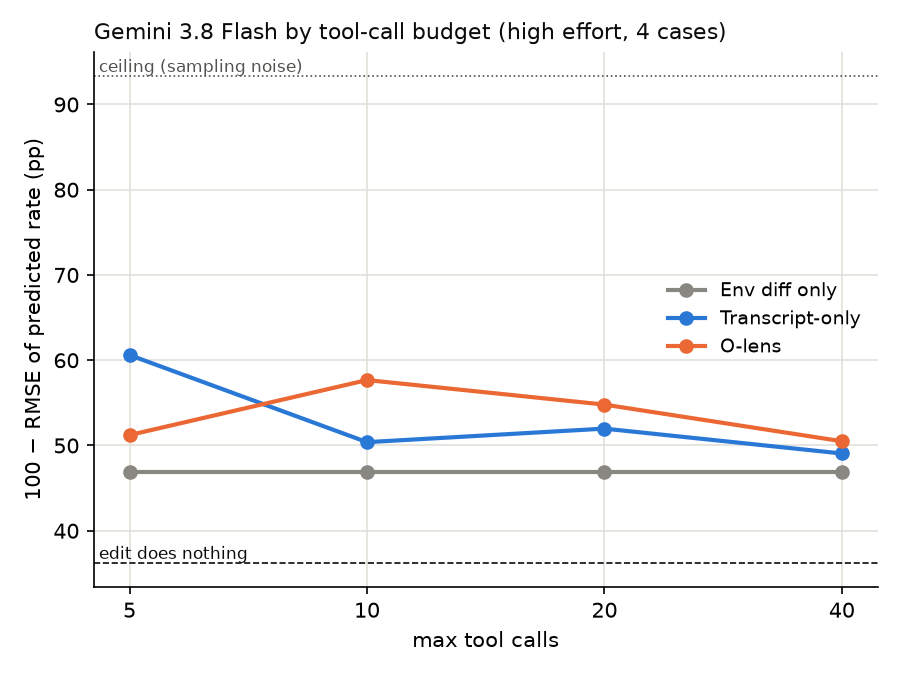
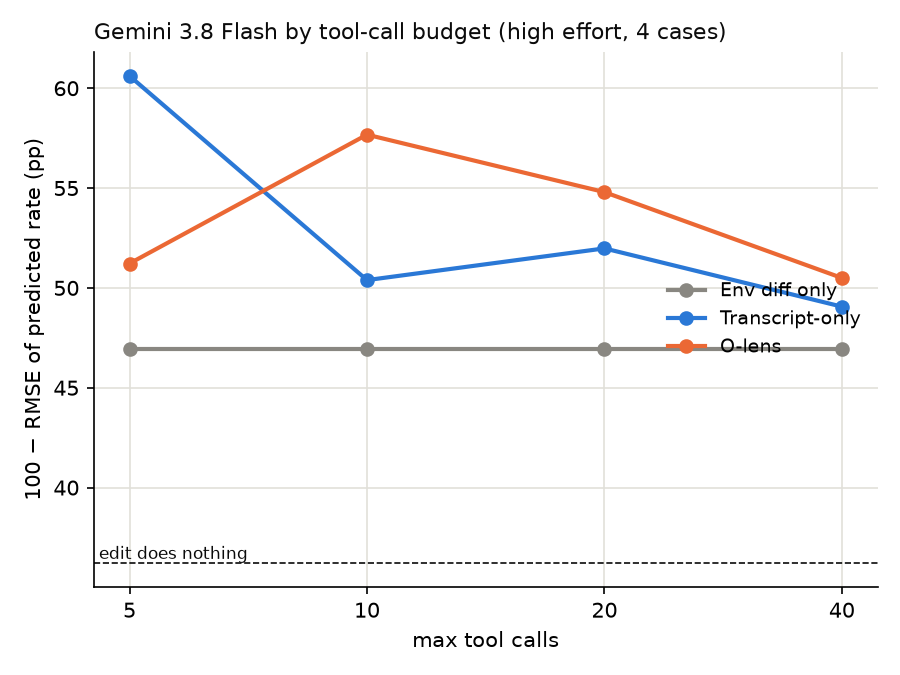
charts: drop the sampling-noise ceiling lines

diff --git a/cfbench/report/charts.py b/cfbench/report/charts.py
@@ -94,7 +94,6 @@ def chart_pooled(cases, cov, out):
     s = stats(cases)
     fig, ax = plt.subplots(figsize=(6.2, 4.6))
     bar_group(ax, 0, s, 0.16, label=True)
-    ax.axhline(acc(s["noise_floor"]), color=MUTED, ls=":", lw=1, zorder=1, label="ceiling (sampling noise)")
     ax.set_xlim(-0.5, 0.5)
     ax.set_xticks([])
     ax.set_ylabel("100 − RMSE of predicted rate (pp)")
@@ -113,8 +112,6 @@ def chart_by_target(per_target: dict[str, dict], covs: dict[str, dict], out):
     w = 0.8 / 5
     for i, t in enumerate(targets):
         bar_group(ax, i, per_target[t], w, label=i == 0)
-        nf = acc(per_target[t]["noise_floor"])
-        ax.plot([i - 0.45, i + 0.45], [nf, nf], color=MUTED, ls=":", lw=1, zorder=1, label="ceiling (sampling noise)" if i == 0 else None)
     ax.set_xticks(
         range(len(targets)),
         [f"{t}\n{per_target[t]['cases']} cases, {per_target[t]['envs']} envs\nESS {per_target[t]['ess_envs']:.1f} envs" for t in targets],

diff --git a/cfbench/report/modelchart.py b/cfbench/report/modelchart.py
@@ -112,8 +112,6 @@ def logo(predictor: str):
 def style(ax, s: dict, title: str, xlabel: str):
     ref = next(iter(s.values()))
     ax.axhline(ref["null"], color=INK, lw=0.8, ls="--", zorder=1)
-    ax.axhline(ref["ceiling"], color=MUTED, lw=0.8, ls=":", zorder=1)
-    ax.text(ax.get_xlim()[0], ref["ceiling"], " ceiling (sampling noise)", va="bottom", fontsize=8, color=MUTED)
     ax.text(ax.get_xlim()[0], ref["null"], " edit does nothing", va="bottom", fontsize=8, color=INK)
     ax.set_xlabel(xlabel)
     ax.set_ylabel("100 − RMSE of predicted rate (pp)")
